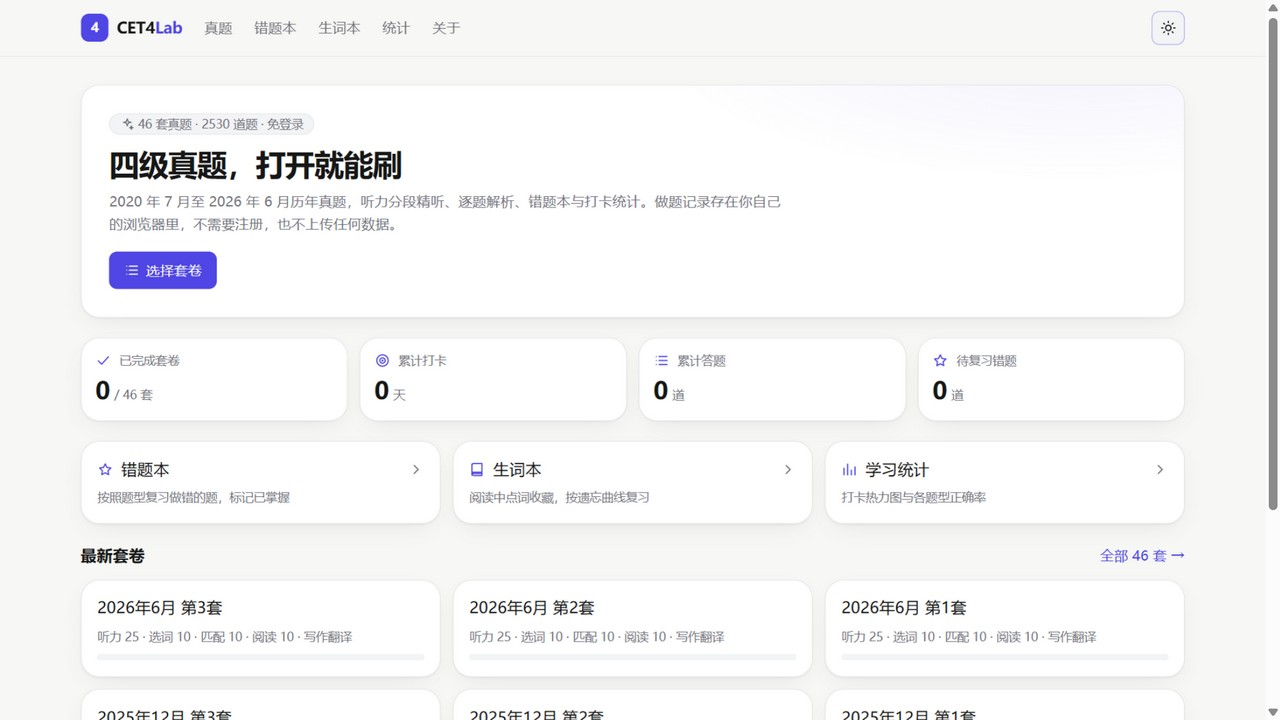
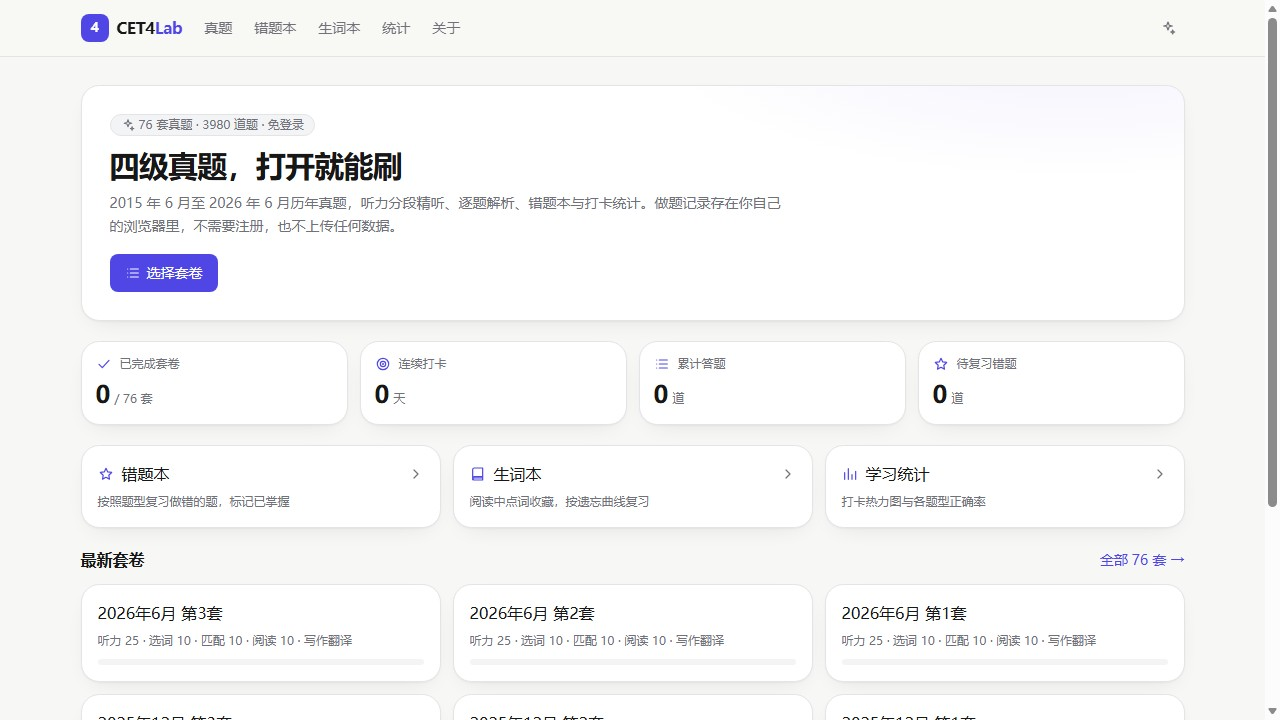
feat: 作品集同步四级刷题站 76 套真题与新封面

diff --git a/data/projects.ts b/data/projects.ts
@@ -5,7 +5,7 @@ export const PROJECTS: Project[] = [
     type: 'self',
     title: 'CET4Lab · 四级真题刷题',
     description:
-      '大学英语四级历年真题在线刷题站：46 套 2530 题，整卷限时 / 分题型练习 / 背题三种模式，听力支持分段精听与倍速，逐题解析、错题本、SM-2 生词复习与打卡统计。免登录、零数据库，做题记录只存浏览器。',
+      '大学英语四级历年真题在线刷题站：2015–2026 年 76 套 3980 题，整卷限时 / 分题型练习 / 背题三种模式，听力支持分段精听与倍速，逐题解析、错题本、SM-2 生词复习与打卡统计。免登录、零数据库，做题记录只存浏览器。',
     imgSrc: '/static/images/projects/cet4lab.jpg',
     url: 'https://cet4.adcakeyuan.top',
     repo: 'huqinyuan923-hue/cet4lab',
